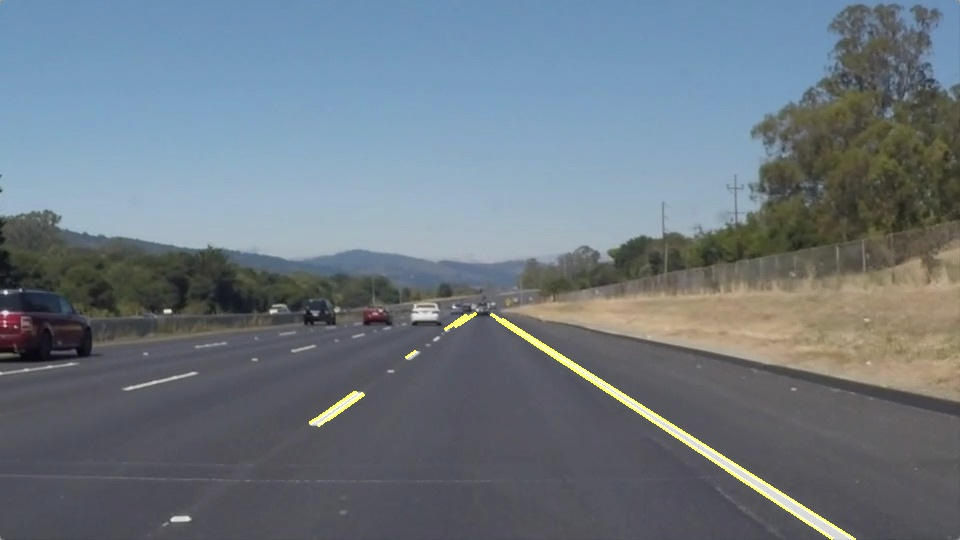
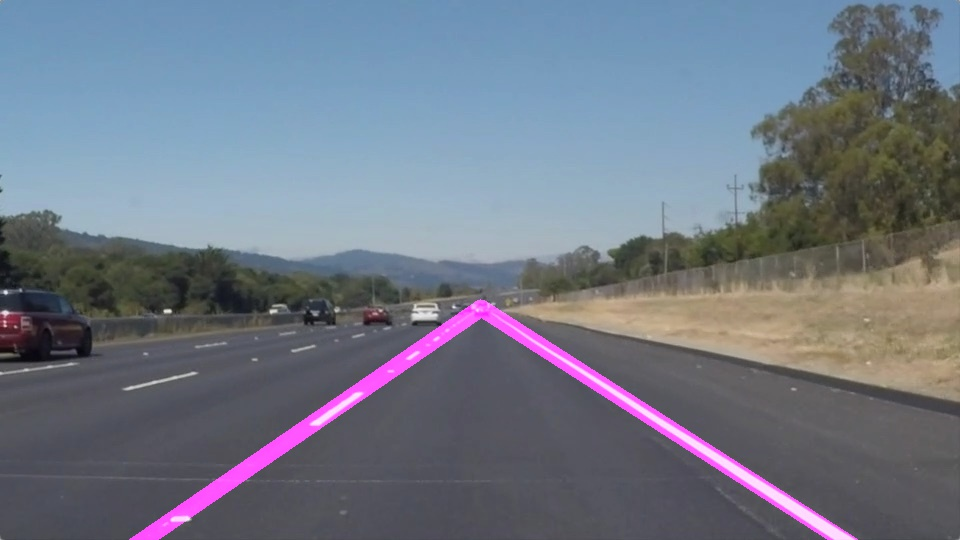
added writeup; updated images

Changed region(s): [[0.125, 0.563, 0.9062, 1.0]]

diff --git a/main.py b/main.py
@@ -4,27 +4,20 @@ from utils import *
 
 files = os.listdir("test_images/")
 
-# for file in files:
-# img = mpimg.imread("test_images/" + file)
-img = mpimg.imread("test_images/solidWhiteCurve.jpg")
-gray = grayscale(img)
-gray = gaussian_blur(gray, 3)
-edges = canny(gray, 50, 180)
+for file in files:
+    img = mpimg.imread("test_images/" + file)
+    gray = grayscale(img)
+    gray = gaussian_blur(gray, 3)
+    edges = canny(gray, 50, 180)
 
-imshape = img.shape
-vertices = np.array([[(.51 * imshape[1], imshape[0] * .58), (.49 * imshape[1], imshape[0] * .58), (0, imshape[0]),
-                      (imshape[1], imshape[0])]], dtype=np.int32)
-target = region_of_interest(edges, vertices)
+    imshape = img.shape
+    vertices = np.array([[(.51 * imshape[1], imshape[0] * .58), (.49 * imshape[1], imshape[0] * .58), (0, imshape[0]),
+                          (imshape[1], imshape[0])]], dtype=np.int32)
+    target = region_of_interest(edges, vertices)
 
-lines = hough_lines(target, 1, np.pi / 180, 35, 5, 2)
-result = weighted_img(lines, img, 0.9, 1)
-r, g, b = cv2.split(result)
-result = cv2.merge((b, g, r))
+    lines = hough_lines(target, 1, np.pi / 180, 35, 5, 2)
+    result = weighted_img(lines, img, 0.9, 1)
+    r, g, b = cv2.split(result)
+    result = cv2.merge((b, g, r))
 
-# cv2.imwrite("output_images/" + file, result)
-cv2.imwrite("output_images/solidWhiteCurve.jpg", result)
-
-# plt.imshow(result, cmap='gray')
-# #
-# plt.colorbar()
-# plt.show()
+    cv2.imwrite("output_images/" + file, result)

diff --git a/utils.py b/utils.py
@@ -100,9 +100,6 @@ def draw_lines(img, lines, color=[255, 0, 0], thickness=2):
                     rc.append(center)
                     rm.append(slope)
 
-    # util_draw_line(img, leftlines, [255, 0, 0])
-    # util_draw_line(img, rightlines, [255, 255, 0])
-
     r_slope = np.sum(rm) / len(rm)
     l_slope = np.sum(lm) / len(lm)
 
@@ -113,7 +110,7 @@ def draw_lines(img, lines, color=[255, 0, 0], thickness=2):
     rightX, rightY = r_center
 
     lefty1 = - (l_slope*(leftX - 480) - leftY)
-    lefty2 = - (l_slope*(leftX - 150) - leftY)
+    lefty2 = - (l_slope*(leftX - 100) - leftY)
 
     int_lefty1 = int(round(lefty1))
     int_lefty2 = int(round(lefty2))
@@ -125,14 +122,8 @@ def draw_lines(img, lines, color=[255, 0, 0], thickness=2):
     int_righty1 = int(round(righty1))
     int_righty2 = int(round(righty2))
 
-    # arr = np.array([[(540, lefty1), (250, lefty2)]], dtype=np.int32)
-
-    # print((540, lefty1), (250, lefty2))
-    cv2.line(img, (480, int_lefty1), (150, int_lefty2), [255, 0, 255], 15)
+    cv2.line(img, (480, int_lefty1), (100, int_lefty2), [255, 0, 255], 15)
     cv2.line(img, (480, int_righty1), (900, int_righty2), [255, 0, 255], 15)
-
-    # print((480, int_righty1), (900, int_righty2))
-
 
 def hough_lines(img, rho, theta, threshold, min_line_len, max_line_gap):
     """

diff --git a/writeup.md b/writeup.md
@@ -1,0 +1,47 @@
+#**Finding Lane Lines on the Road** 
+
+##Writeup Template
+
+###You can use this file as a template for your writeup if you want to submit it as a markdown file. But feel free to use some other method and submit a pdf if you prefer.
+
+---
+
+**Finding Lane Lines on the Road**
+
+The goals / steps of this project are the following:
+* Make a pipeline that finds lane lines on the road
+* Reflect on your work in a written report
+
+
+[//]: # (Image References)
+
+[image1]: ../CarND-LaneLines-P1_loaded/examples/grayscale.jpg "Grayscale"
+
+---
+
+### Reflection
+
+###1. Describe your pipeline. As part of the description, explain how you modified the draw_lines() function.
+
+My pipeline consisted of 5 steps. 
+- I converted the images to grayscale, 
+- I used gaussian blur to prepare image for Canny algorithm
+- Used Canny algorithm to array of edges
+- Then I cut image to get region of interest only
+- I used Hough lines algorithm with own draw_lines function to get extrapolated lane lines
+
+In order to draw a single line on the left and right lanes, I modified the draw_lines() function by ...
+I went through video `Self-Driving Car Project Q&A | Finding Lane Lines`.
+So i divided lines into 2 arryas: left & right lane lines.
+Then i calculated average center & slope of each group and used it in calculationg y1,y2:
+`y-y1=M(x-x1)`. I found y1 as `y1 = - (M(x-x1) + y)`, where M is slope, x,y - center of line, y1 - left/right edge of road.
+
+###2. Identify potential shortcomings with your current pipeline
+
+One potential shortcoming would be what would happen when car drives on sharp turn road, my algorithm work not very good on challenge.mpg 
+
+###3. Suggest possible improvements to your pipeline
+
+A possible improvement would be to optimize speed of overall pipeline. Not sure it's fast enough to work with high-res video in real-time
+
+Another potential improvement could be to calculate more smartly height of image, that i use in `draw_line()` function
